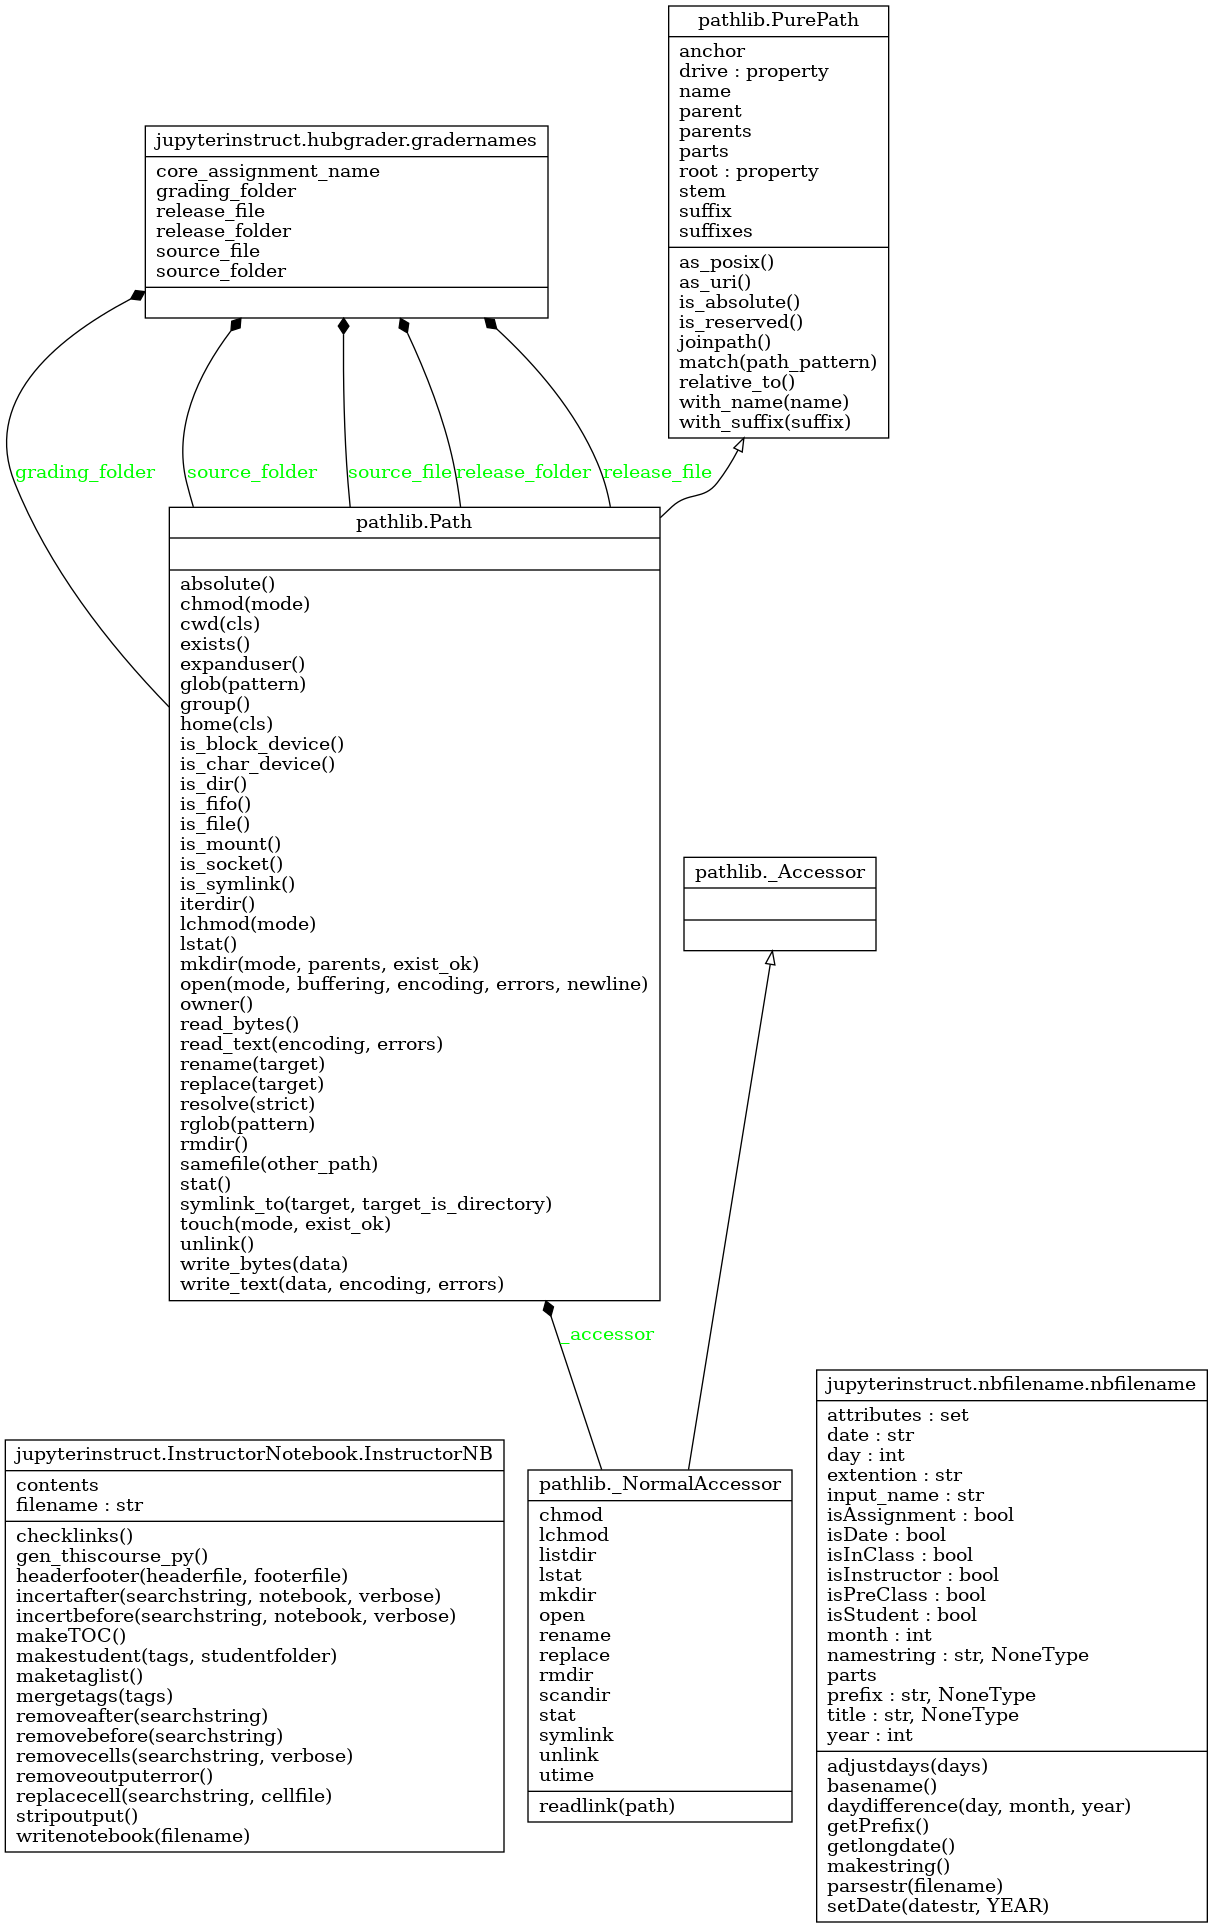
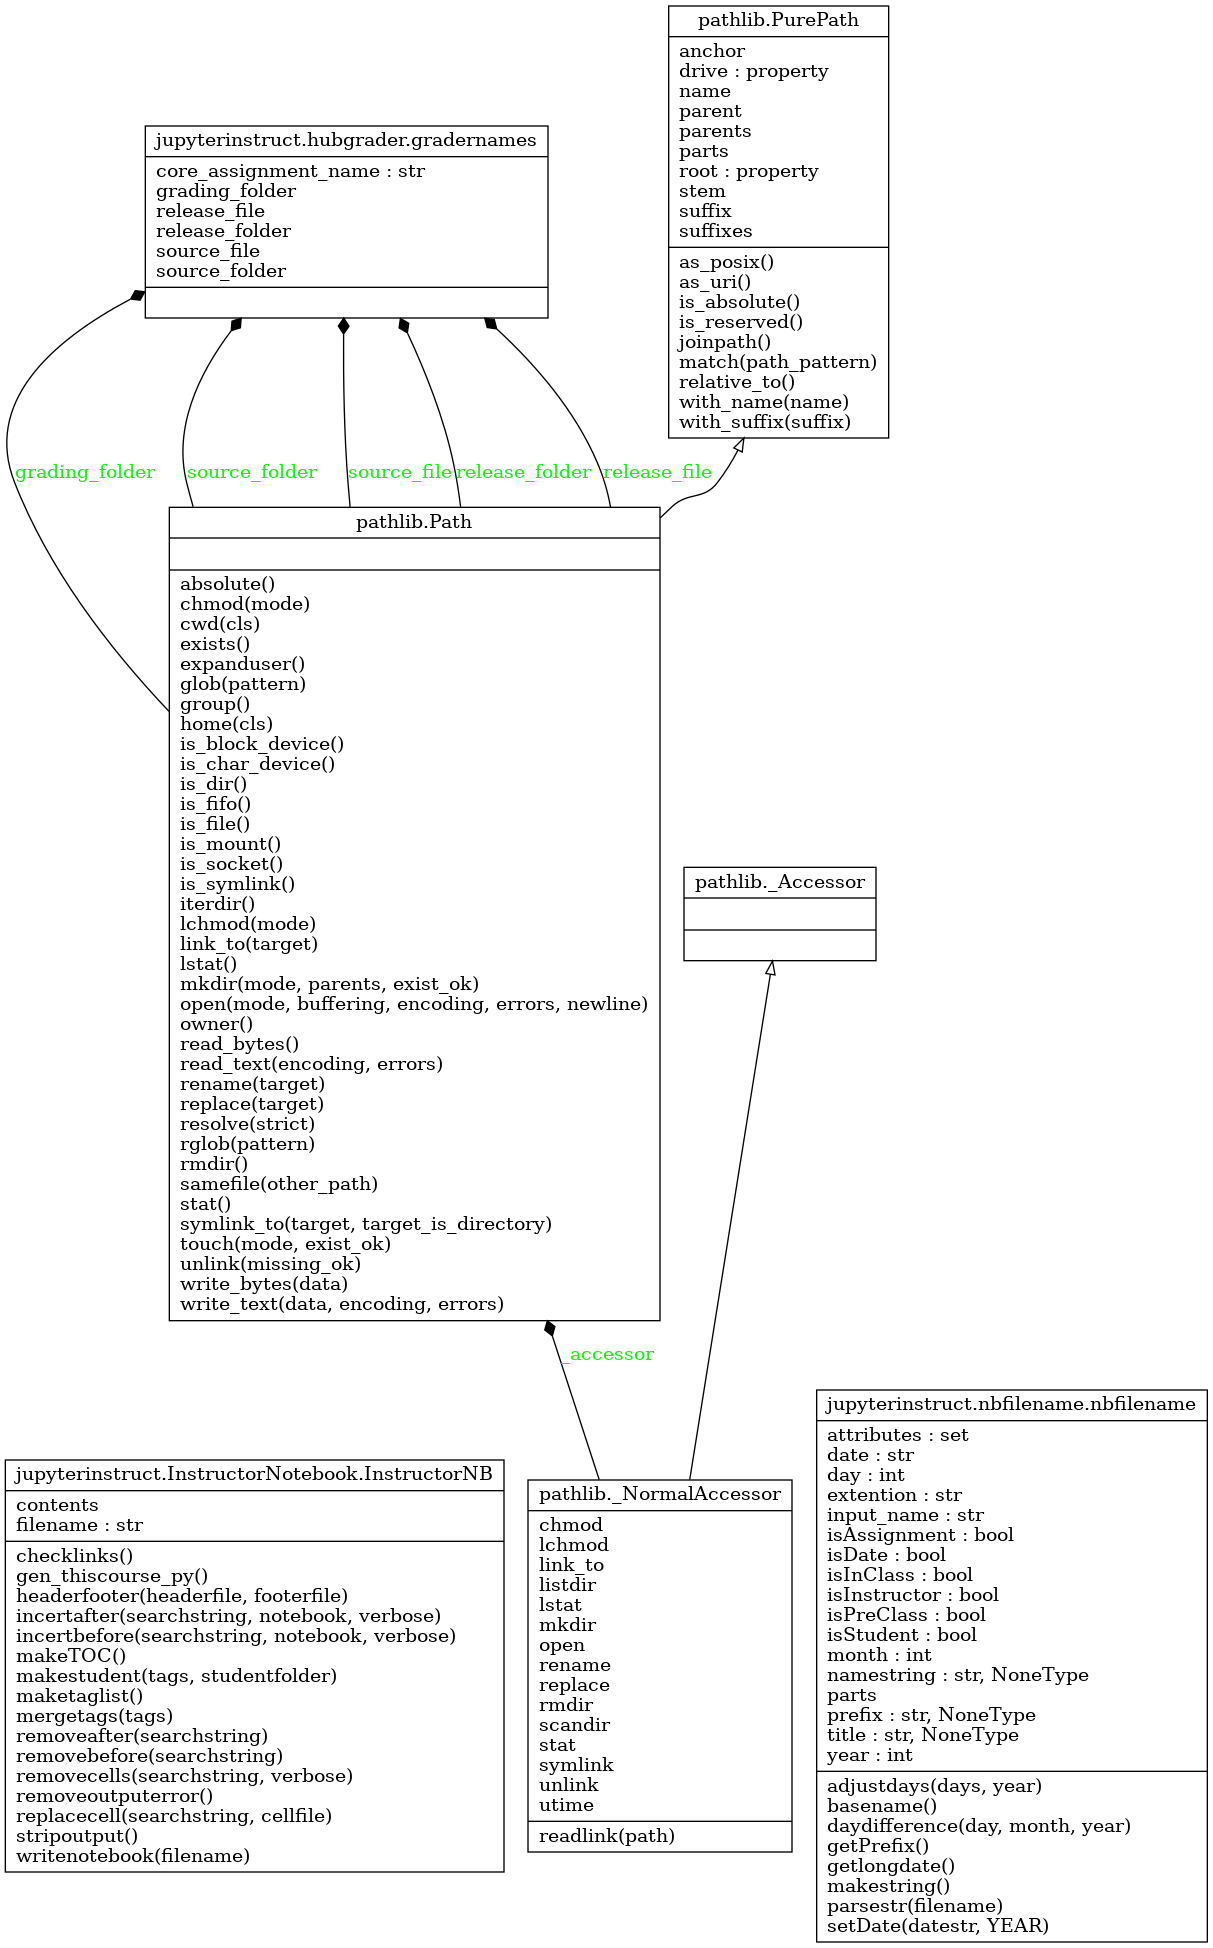
adding year option

diff --git a/docs/index.html b/docs/index.html
@@ -1,16 +1,16 @@
 <h1>JupyterInstruct</h1>
 <p>Written by <a href="http://colbrydi.github.io/">Dirk Colbry</a></p>
-<p><img alt="JupyterInstruct logo with a cartoon Jupyter writing on a green chalkboard. Image created by Tamara Colbry" src="https://raw.githubusercontent.com/colbrydi/jupyterinstruct/master/docs/images/JupyterInstruct_icon.png" style="float:right" width=300px> </p>
-<p>The JupyterInstruct Python package is designed for INSTRUCTORS to organize and adjust course curriculum. Each assignment is given it's own jupyter notebook and all student reading, videos, images are included in the notebook.  Each notebook also contains notes for instructors that will be automatically removed. The main design goals for this project include: </p>
+<p><img alt="JupyterInstruct logo with a cartoon Jupyter writing on a green chalkboard. Image created by Tamara Colbry" src="https://raw.githubusercontent.com/colbrydi/jupyterinstruct/master/docs/images/JupyterInstruct_icon.png" style="float:right" width=300px></p>
+<p>The JupyterInstruct Python package is designed for INSTRUCTORS to organize and adjust course curriculum. Each assignment is given it's own jupyter notebook and all student reading, videos, images are included in the notebook.  Each notebook also contains notes for instructors that will be automatically removed. The main design goals for this project include:</p>
 <ul>
-<li>Tools to help instructors maintain course materials all in one place including instructor notes and answers. </li>
+<li>Tools to help instructors maintain course materials all in one place including instructor notes and answers.</li>
 <li>Tools to help migrate curriculum form one semester to the next.</li>
-<li>Tools to automatically generate websites and ebooks from notebooks. </li>
+<li>Tools to automatically generate websites and ebooks from notebooks.</li>
 <li>Notebook validation tools to identify common problems with links, images and accessibility.</li>
-<li>Tools to interface nbgrader with the MSU jupyterhub servers and MSU Desire2Learn course management systems. </li>
+<li>Tools to interface nbgrader with the MSU jupyterhub servers and MSU Desire2Learn course management systems.</li>
 </ul>
 <h2>Installation</h2>
-<p>This package is currently under development and is not avaliable via pipy.  To install use the following command:</p>
+<p>This package is currently under development and is not available via pipy.  to install use the following command:</p>
 <p><code>pip install git+https://github.com/colbrydi/jupyterinstruct</code></p>
 <p>To install as a user on Jupyterhub try the following instead:</p>
 <p><code>pip install -user git+https://github.com/colbrydi/jupyterinstruct</code></p>
@@ -23,7 +23,7 @@
 <li><code>renamenb OLDFILENAME NEWFILENAME</code> - Rename a notebook</li>
 <li><code>makestudentnb -o OUTPUTFOLDER NOTEBOOKNAME</code> - Make a student version of the notebook</li>
 </ul>
-<p><strong><em>NOTE</em></strong>: The MSU jupyterhub server terminal currently defaults to tcsh. To best utilize these tools type 'bash' at the command prompt when starting a terminal. </p>
+<p><strong><em>NOTE</em></strong>: The MSU jupyterhub server terminal currently defaults to tcsh. To best utilize these tools type 'bash' at the command prompt when starting a terminal.</p>
 <p>```</p>
 <blockquote>
 <p>bash
@@ -33,10 +33,10 @@ jupyterinstruct
 <h2>Package UML dependancies</h2>
 <p><img alt="Package UML dependances" src="https://raw.githubusercontent.com/colbrydi/jupyterinstruct/master/docs/images/packages.png"></p>
 <h2>Usage</h2>
-<p>Please check out the <a href="https://colbrydi.github.io/jupyterinstruct/Examples">Example.ipynb</a> for some instructions on how to use Jupyterinstruct. </p>
+<p>Please check out the <a href="https://colbrydi.github.io/jupyterinstruct/Examples">Example.ipynb</a> for some instructions on how to use Jupyterinstruct.</p>
 <p><a href="https://colbrydi.github.io/jupyterinstruct/jupyterinstruct/index.html">Click here for package documentation</a></p>
-<h2>Accessable Jupyter Condtent</h2>
-<p>Also included in this git repository is a notebook demonstrating best practices for generating Accessable content in Jupyter notebooks.</p>
+<h2>Accessible Jupyter Content</h2>
+<p>Also included in this git repository is a notebook demonstrating best practices for generating accessible content in Jupyter notebooks.</p>
 <ul>
-<li><a href="Accessable_Jupyter_content_for_INSTRUCTORS">Accessable Jupyter Content</a></li>
+<li><a href="Accessable_Jupyter_content_for_INSTRUCTORS">Accessible Jupyter Content</a> Warning: Link broken, check with Dirk to fix this.</li>
 </ul>

diff --git a/jupyterinstruct/nbfilename.py b/jupyterinstruct/nbfilename.py
@@ -134,8 +134,9 @@ class nbfilename():
         datediff = new_date - old_date
         return datediff.days
 
-    def adjustdays(self, days=0):
+    def adjustdays(self, days=0, year=2023):
         """Ajust the date strig based on number of days. Don't forget to add years"""
+        self.year = year
         old_date = datetime.datetime(self.year, self.month, self.day)
         datediff = datetime.timedelta(days=days)
         new_date = old_date+datediff
